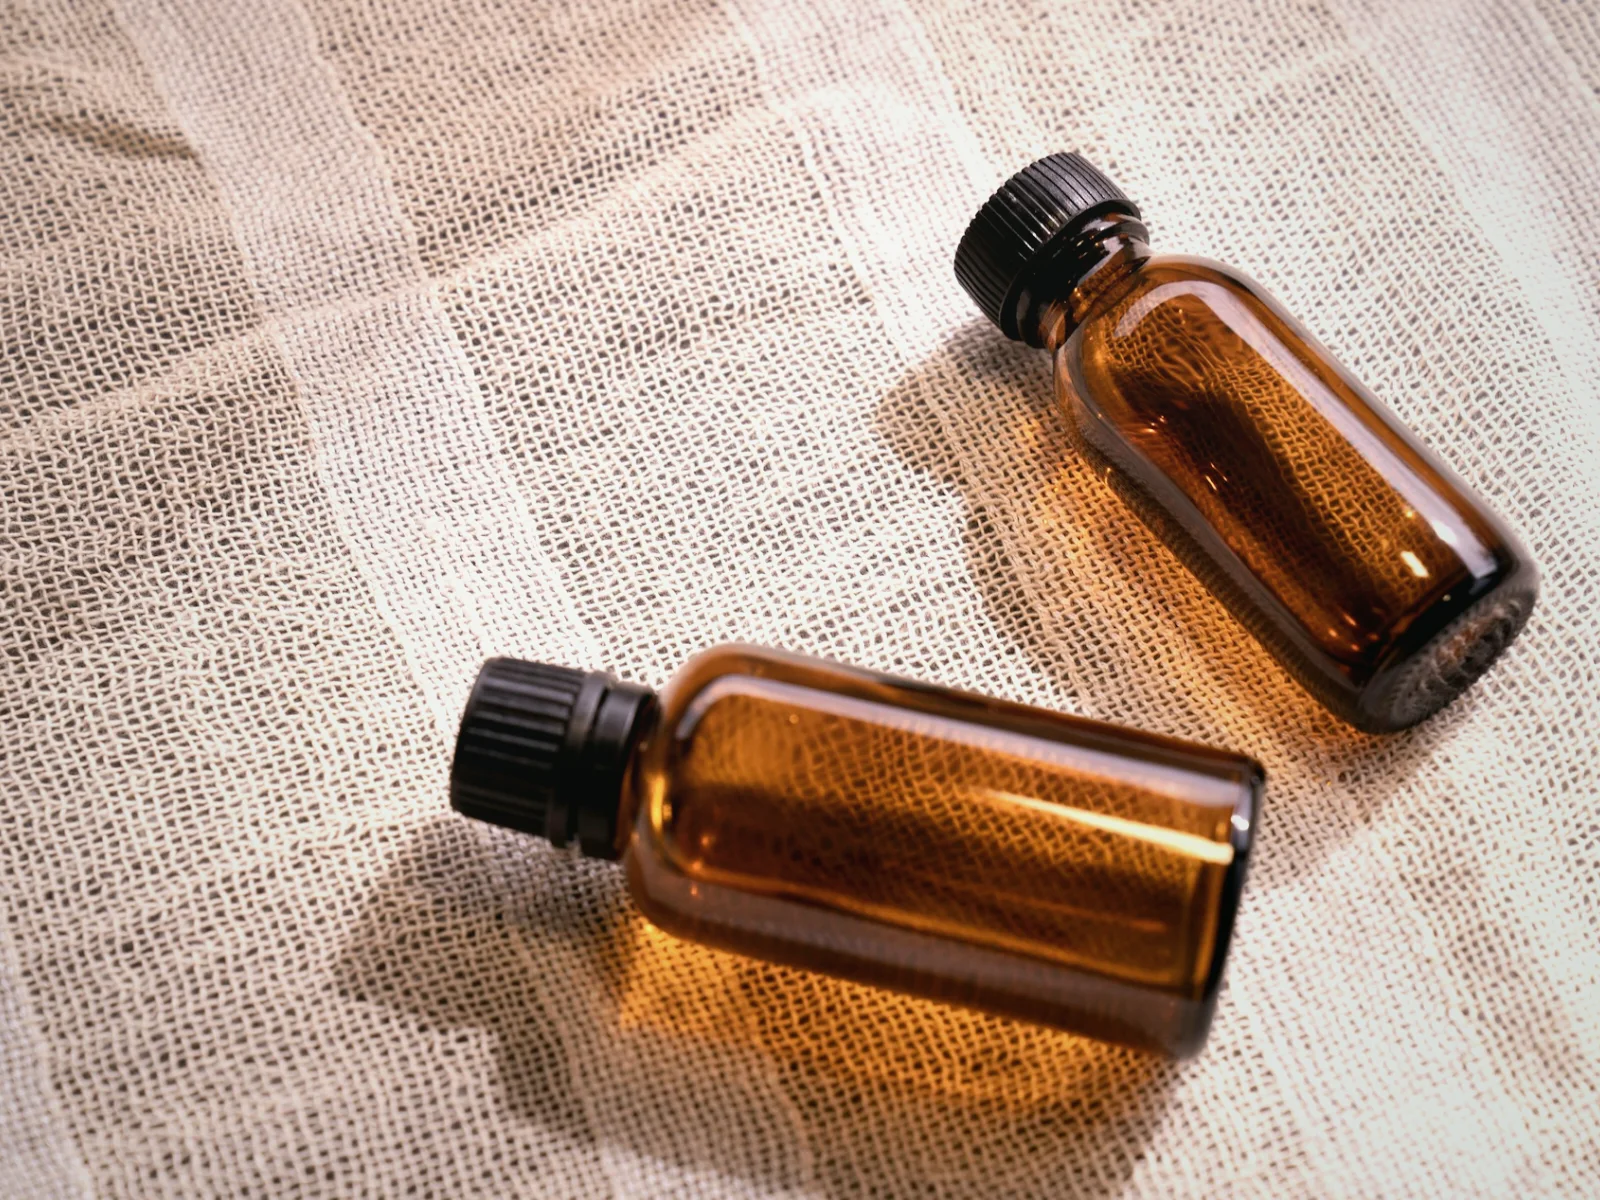
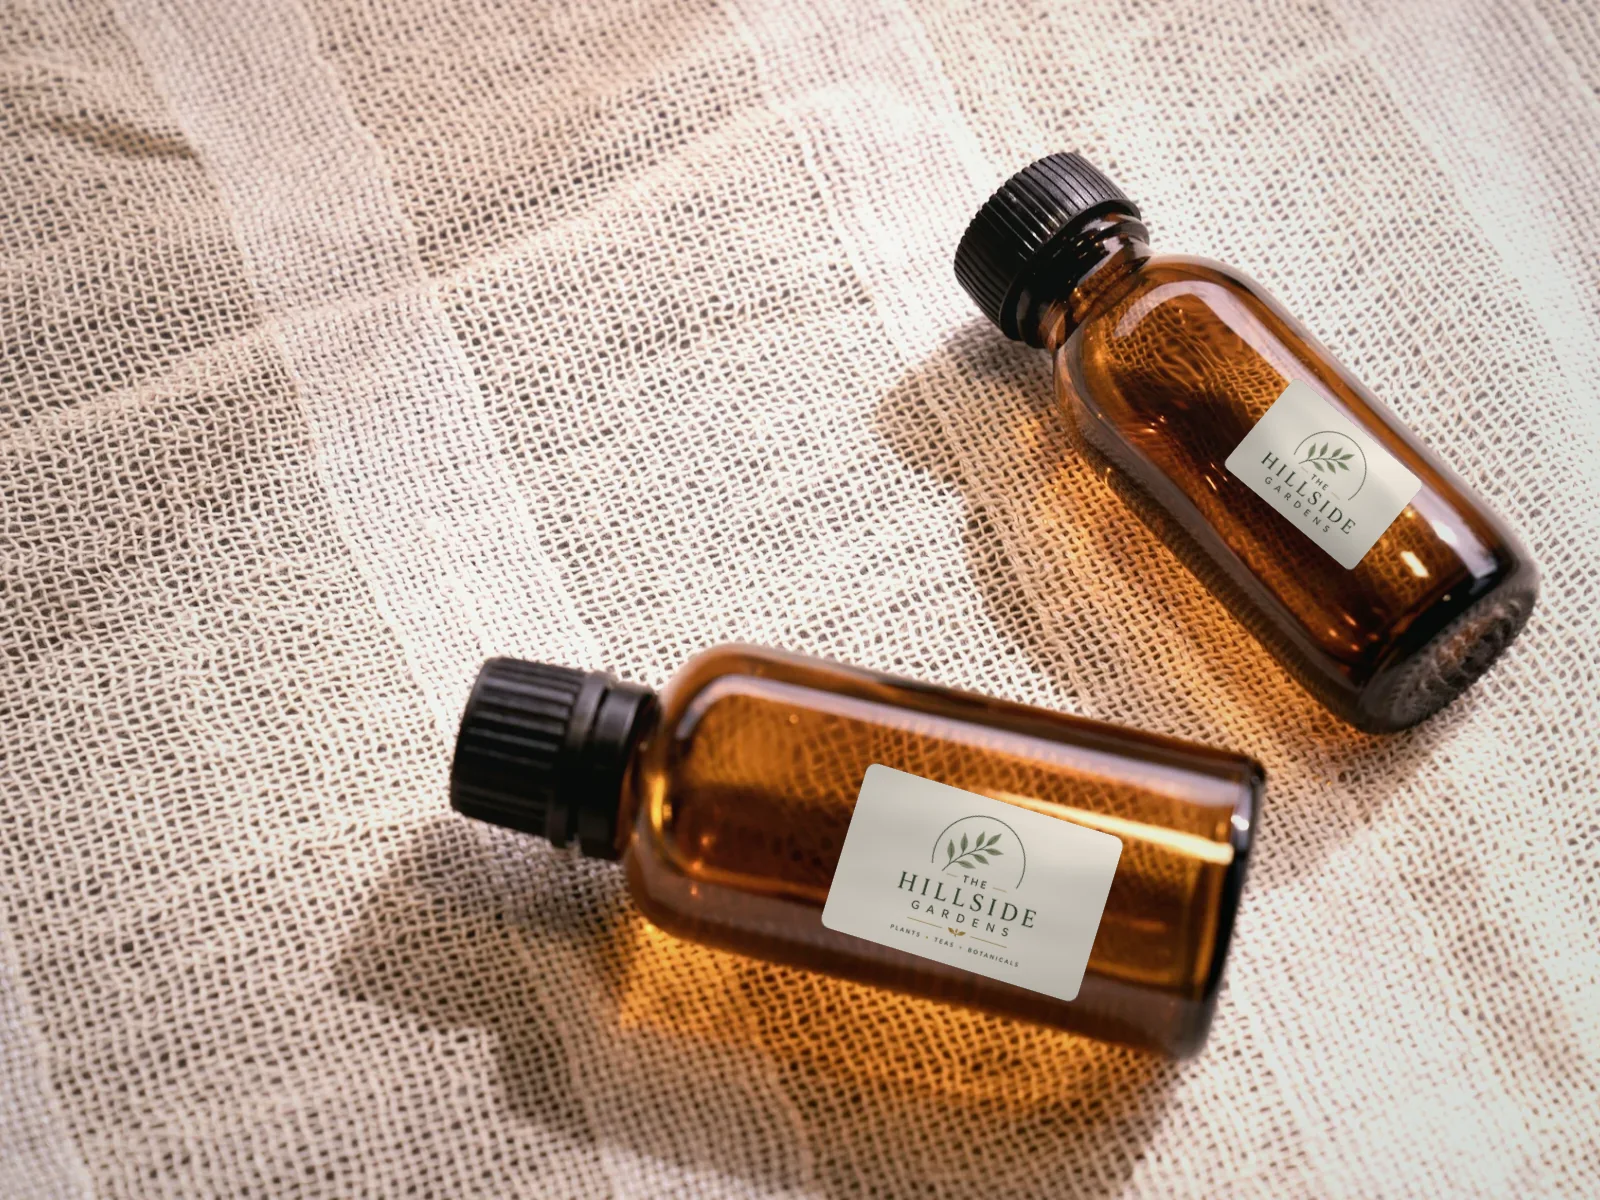
Print the Hillside mark onto the product photography
The storefront shipped licensed photographs of somebody's amber bottles and
somebody's soap. These are the same photographs with the real logo printed on
the packaging inside them -- the ordinary product-mockup technique, and the
reason the mark was supplied as transparent artwork.

- Amber bottles take a printed paper label. It is not pasted flat: the label is
  rotated onto each bottle's axis, then relit from the luminance of the pixels
  it covers, so the bottle's own highlight runs across it and its shadow side
  stays dark. The shading map is blurred hard first -- without that the linen
  weave printed straight through and the label read as tracing paper.
- Kraft soap wraps take an inked stamp instead, composited in multiply so the
  paper grain reads through the ink. A cream label plate on brown paper would
  have looked like a sticker.
- Geometry is measured off a coordinate grid, not guessed, and recorded in
  scripts/brand-mockup.config.mjs. --debug outlines every placement so a shot
  can be re-measured rather than eyeballed.

The unbranded originals move to assets/photography/, outside public/ so they
are never served. Every run reads from there and rewrites the file in
public/images/catalog/, so the step is idempotent -- verified by three
consecutive runs producing a byte-identical file. The mark can never be
composited onto an already-branded image.

These are now photographs of Hillside-branded product. They are still not
[…]

Changed region(s): [[0.5, 0.6167, 0.7188, 0.8325], [0.75, 0.3083, 0.9062, 0.4625]]

diff --git a/docs/image-credits.md b/docs/image-credits.md
@@ -45,10 +45,32 @@ Whatever the source, add it to the tables below with its licence before committi
 | `potting-bench.webp` | [photo-1636039479790](https://unsplash.com/photos/1636039479790-be1d880e2b8c) |
 | `workshop-table.webp` | [photo-1781977972837](https://unsplash.com/photos/1781977972837-e3b3f343be0e) |
 
+## Branded product photography
+
+`apothecary.webp` and `homemade-soaps.webp` carry the Hillside mark on the packaging inside the
+photograph — a printed label on the amber bottles, an inked stamp on the kraft soap wraps. This is
+the ordinary product-mockup technique, and it is why the logo was supplied as transparent artwork.
+
+The mark is not pasted on flat. Each placement is rotated onto its object's axis and then relit
+from the luminance of the pixels it covers, so the bottle's own highlight runs across the label and
+its shadow side stays dark. The soap stamps are composited in multiply, so the kraft grain reads
+through the ink the way it would on absorbent paper.
+
+```bash
+npm run images:mockup                               # rebuild every branded shot
+npm run images:mockup -- --only apothecary --debug  # outline each placement to re-measure
+```
+
+The unbranded originals live in `assets/photography/`, outside `public/` so they are never served.
+Every run reads from there and rewrites the file in `public/images/catalog/`, so the step is
+idempotent — the mark can never be composited onto an already-branded image. Placement geometry is
+recorded in `scripts/brand-mockup.config.mjs` rather than re-measured by hand.
+
 ## What these images are, and are not
 
-They are real photographs of real plants and goods, and they are licensed for commercial use.
-They are **not** photographs of The Hillside Gardens' own stock. For a shop where the customer
+They are real photographs of real plants and goods, licensed for commercial use, now carrying the
+real Hillside mark. They are still **not** photographs of The Hillside Gardens' own stock — the
+bottles and soap in them belong to the original photographers. For a shop where the customer
 receives the specific item pictured, the honest end state is Tammy's own photography, uploaded
 per product through the admin dashboard — see `docs/admin-image-uploads.md`. Owner uploads
 already override these automatically on a per-product basis, so replacing them is incremental
